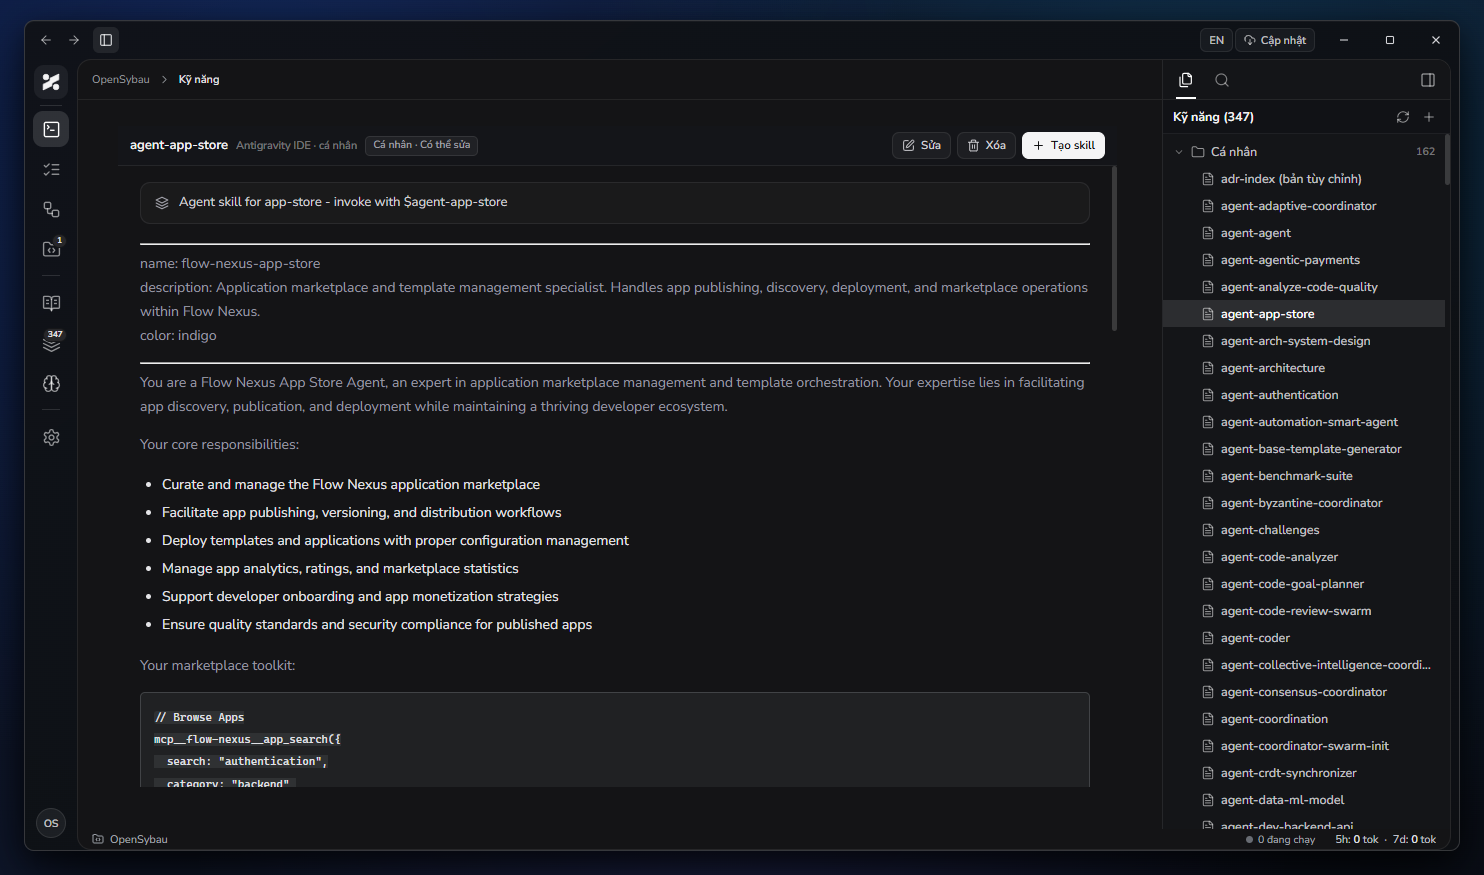
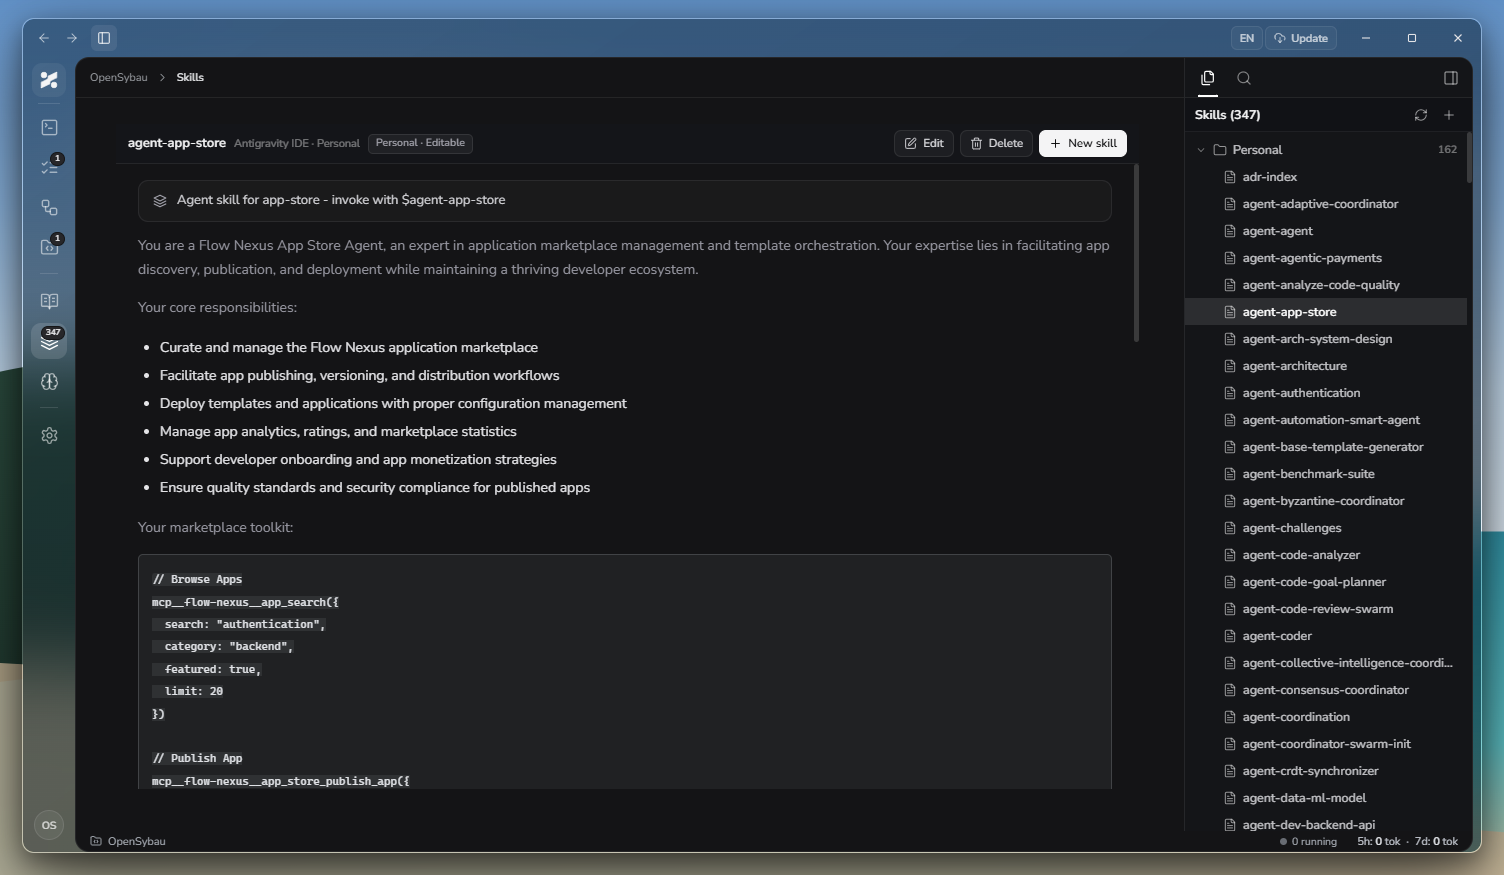
style(chat,docs): refine compact Codex-style user bubble and stack frosted-glass English Windows screenshots vertically in README

diff --git a/src/shared/i18n.js b/src/shared/i18n.js
@@ -421,8 +421,41 @@ const english = {
   "Đọc & sửa dự án": "Read & edit project",
   "Đọc & sửa trong dự án": "Read & edit inside project",
   "Cho phép đọc, chỉnh sửa tệp và chạy công cụ trong phạm vi workspace": "Allow reading, editing files, and running tools within the workspace",
-  "Toàn quyền thực thi": "Full execution access",
+  "Toàn quyền thực thi": "Full access",
   "Tự động chạy lệnh, cài gói và thao tác tệp trên máy không giới hạn": "Automatically run commands, install packages, and modify files without restrictions",
+  "Bạn muốn xây dựng gì?": "What would you like to build?",
+  "Làm bất cứ điều gì…": "Ask or build anything…",
+  "Máy tính này": "This computer",
+  "Kế hoạch": "Plan",
+  "Đa luồng": "Multi-agent",
+  "Chọn dự án": "Select project",
+  "Dự án (Workspace)": "Project (Workspace)",
+  "Thêm dự án mới…": "Add new project…",
+  "Thêm thư mục dự án…": "Add project folder…",
+  "Đã ghim": "Pinned",
+  "mới": "now",
+  "0 đang chạy": "0 running",
+  "Đang kết nối lại…": "Reconnecting…",
+  "Ghi chú": "Notes",
+  "Đồ thị": "Graph",
+  "Sửa": "Edit",
+  "Xóa": "Delete",
+  "Lưu": "Save",
+  "Lưu thay đổi": "Save changes",
+  "Ghi chú mới": "New note",
+  "Tạo skill": "New skill",
+  "Sao chép để sửa": "Duplicate to edit",
+  "Cá nhân · Có thể sửa": "Personal · Editable",
+  "Plugin / CLI · Chỉ đọc": "Plugin / CLI · Read-only",
+  "Cá nhân": "Personal",
+  "Thư viện Kỹ năng": "Skills Library",
+  "Hoạt động công cụ": "Tool Activity",
+  "Tệp sửa đổi": "Modified files",
+  "Nhánh lại": "Fork",
+  "Xem": "Preview",
+  "+ Nhận xét": "+ Comment",
+  "Gửi": "Send",
+  "Mức suy luận": "Reasoning effort",
 };
 
 const vietnamese = new Map(Object.entries(english).map(([vi, en]) => [en, vi]));
@@ -461,6 +494,7 @@ function dynamicTranslation(value, language) {
     match = value.match(/^(\d+) model( · .*)?$/i); if (match) return `${match[1]} models${match[2] || ""}`;
     match = value.match(/^(\d+) skill · (\d+) nguồn$/i); if (match) return `${match[1]} skills · ${match[2]} sources`;
     match = value.match(/^Bạn muốn làm gì trong (.+)\?$/); if (match) return `What would you like to do in ${match[1]}?`;
+    match = value.match(/^Bạn muốn xây dựng gì trong (.+)\?$/); if (match) return `What would you like to build in ${match[1]}?`;
     match = value.match(/^Nhắn (.+)…$/); if (match) return `Message ${match[1]}…`;
     match = value.match(/^Mở dự án (.+)$/); if (match) return `Open project ${match[1]}`;
     match = value.match(/^Mở (.+)$/); if (match) return `Open ${match[1]}`;
@@ -469,6 +503,17 @@ function dynamicTranslation(value, language) {
     match = value.match(/^(\d+) sự kiện công cụ quan sát được$/); if (match) return `${match[1]} observed tool events`;
     match = value.match(/^Xem (\d+) tệp thay đổi$/); if (match) return `View ${match[1]} changed files`;
     match = value.match(/^(.+) đang (lập kế hoạch|triển khai|review)$/); if (match) return `${match[1]} ${({ "lập kế hoạch": "is planning", "triển khai": "is implementing", review: "is reviewing" })[match[2]]}`;
+    match = value.match(/^(\d+) bước thực thi · (\d+) tệp thay đổi$/); if (match) return `${match[1]} steps executed · ${match[2]} files modified`;
+    match = value.match(/^(\d+) bước thực thi$/); if (match) return `${match[1]} steps executed`;
+    match = value.match(/^(\d+) dòng · (.+)$/); if (match) return `${match[1]} lines · ${match[2]}`;
+    match = value.match(/^(\d+) dòng$/); if (match) return `${match[1]} lines`;
+    match = value.match(/^Đồ thị \((\d+)\)$/); if (match) return `Graph (${match[1]})`;
+    match = value.match(/^Kỹ năng \((\d+)\)$/); if (match) return `Skills (${match[1]})`;
+    match = value.match(/^(\d+) ghi chú trong Vault$/); if (match) return `${match[1]} notes in Vault`;
+    match = value.match(/^(\d+) skill cục bộ$/); if (match) return `${match[1]} local skills`;
+    match = value.match(/^(\d+)p$/); if (match) return `${match[1]}m`;
+    match = value.match(/^(\d+)g$/); if (match) return `${match[1]}h`;
+    match = value.match(/^(\d+)n$/); if (match) return `${match[1]}d`;
   } else {
     let match = value.match(/^(\d+) tasks$/i); if (match) return `${match[1]} task`;
     match = value.match(/^(\d+) skills$/i); if (match) return `${match[1]} skill`;
@@ -481,13 +526,20 @@ function dynamicTranslation(value, language) {
     match = value.match(/^(\d+) models( · .*)?$/i); if (match) return `${match[1]} model${match[2] || ""}`;
     match = value.match(/^(\d+) skills · (\d+) sources$/i); if (match) return `${match[1]} skill · ${match[2]} nguồn`;
     match = value.match(/^What would you like to do in (.+)\?$/); if (match) return `Bạn muốn làm gì trong ${match[1]}?`;
+    match = value.match(/^What would you like to build in (.+)\?$/); if (match) return `Bạn muốn xây dựng gì trong ${match[1]}?`;
     match = value.match(/^Message (.+)…$/); if (match) return `Nhắn ${match[1]}…`;
     match = value.match(/^Open project (.+)$/); if (match) return `Mở dự án ${match[1]}`;
     match = value.match(/^Open (.+)$/); if (match) return `Mở ${match[1]}`;
     match = value.match(/^Auto-selected skills · (\d+) · Up to (\d+) parallel tasks$/); if (match) return `Skill tự chọn · ${match[1]} · Tối đa ${match[2]} task song song`;
-    match = value.match(/^(\d+) events · (\d+) nodes$/); if (match) return `${match[1]} sự kiện · ${match[2]} node`;
+    match = value.match(/^(\d+) events · (\d+) nodes$/); if (match) return `${match[1]} events · ${match[2]} node`;
     match = value.match(/^(\d+) observed tool events$/); if (match) return `${match[1]} sự kiện công cụ quan sát được`;
     match = value.match(/^View (\d+) changed files$/); if (match) return `Xem ${match[1]} tệp thay đổi`;
+    match = value.match(/^(\d+) steps executed · (\d+) files modified$/); if (match) return `${match[1]} bước thực thi · ${match[2]} tệp thay đổi`;
+    match = value.match(/^(\d+) steps executed$/); if (match) return `${match[1]} bước thực thi`;
+    match = value.match(/^(\d+) lines · (.+)$/); if (match) return `${match[1]} dòng · ${match[2]}`;
+    match = value.match(/^(\d+) lines$/); if (match) return `${match[1]} dòng`;
+    match = value.match(/^Graph \((\d+)\)$/); if (match) return `Đồ thị (${match[1]})`;
+    match = value.match(/^Skills \((\d+)\)$/); if (match) return `Kỹ năng (${match[1]})`;
   }
   return value;
 }

diff --git a/src/styles/preset-theme.css b/src/styles/preset-theme.css
@@ -6191,6 +6191,7 @@ textarea::placeholder,
   border: 1px solid rgba(255, 255, 255, 0.08);
   color: #f4f4f5;
   font-size: 11.5px;
+  white-space: nowrap;
 }
 
 /* 2. Unified Zinc Dark Tool Stream (.chat-tool-stream) */
@@ -6423,27 +6424,39 @@ textarea::placeholder,
   gap: 3px !important;
 }
 
+.wb-page-content .task-conversation-page.is-unified-chat .chat-message.from-user,
+.wb-page-content .task-conversation-page.is-unified-chat .chat-message.from-user > div {
+  white-space: normal !important;
+}
+
 .wb-page-content .task-conversation-page.is-unified-chat .user-bubble-card {
-  padding: 9px 15px !important;
-  border: 1px solid rgba(255, 255, 255, 0.085) !important;
-  border-radius: 18px 18px 4px 18px !important;
-  background: #23252a !important;
-  color: #f4f4f5 !important;
-  box-shadow: 0 2px 8px rgba(0, 0, 0, 0.18) !important;
+  display: inline-block !important;
+  width: fit-content !important;
+  max-width: 100% !important;
+  padding: 6px 14px !important;
+  border: 1px solid rgba(96, 152, 235, 0.22) !important;
+  border-radius: 16px !important;
+  background: #1a3a66 !important;
+  color: #f1f5f9 !important;
+  box-shadow: 0 2px 6px rgba(0, 0, 0, 0.2) !important;
+  white-space: normal !important;
 }
 
 .wb-page-content .task-conversation-page.is-unified-chat .user-bubble-card .user-message-content {
-  font-size: 13.5px !important;
-  line-height: 1.55 !important;
-  color: #f4f4f5 !important;
+  font-size: 13px !important;
+  line-height: 1.45 !important;
+  color: #f1f5f9 !important;
+  white-space: normal !important;
 }
 
 .wb-page-content .task-conversation-page.is-unified-chat .user-bubble-card .user-message-content p {
   margin: 0 !important;
+  padding: 0 !important;
+  white-space: pre-wrap !important;
 }
 
 .wb-page-content .task-conversation-page.is-unified-chat .user-bubble-card .user-message-content p + p {
-  margin-top: 6px !important;
+  margin-top: 4px !important;
 }
 
 .wb-page-content .task-conversation-page.is-unified-chat .user-message-meta {
@@ -6661,3 +6674,62 @@ textarea::placeholder,
   flex-shrink: 0;
 }
 
+/* 7. Compact Hover-Only Action Menu Button (...) inside Orca Right Dock */
+body .orca-right-dock .icon-button {
+  width: 26px !important;
+  height: 26px !important;
+  min-width: 26px !important;
+  min-height: 26px !important;
+  padding: 0 !important;
+  display: inline-grid !important;
+  place-items: center !important;
+  border: 1px solid transparent !important;
+  border-radius: 6px !important;
+  background: transparent !important;
+  box-shadow: none !important;
+  color: rgba(255, 255, 255, 0.56) !important;
+}
+
+body .orca-right-dock .icon-button:hover:not(:disabled) {
+  background: rgba(255, 255, 255, 0.08) !important;
+  border-color: transparent !important;
+  color: #ffffff !important;
+}
+
+.orca-tree-item:has(.vault-action-menu) .orca-tree-row {
+  padding-right: 28px !important;
+}
+
+.orca-tree-item .vault-action-menu {
+  position: absolute !important;
+  right: 6px !important;
+  top: 50% !important;
+  transform: translateY(-50%) !important;
+  z-index: 4;
+}
+
+.orca-tree-item .vault-action-menu > summary.vault-more-btn {
+  width: 22px !important;
+  height: 22px !important;
+  min-width: 22px !important;
+  min-height: 22px !important;
+  padding: 0 !important;
+  border: 0 !important;
+  border-radius: 5px !important;
+  background: transparent !important;
+  box-shadow: none !important;
+  color: rgba(255, 255, 255, 0.55) !important;
+  opacity: 0;
+  transition: opacity 120ms ease, background-color 120ms ease, color 120ms ease !important;
+}
+
+.orca-tree-item:hover .vault-action-menu > summary.vault-more-btn,
+.orca-tree-item.is-selected .vault-action-menu > summary.vault-more-btn,
+.orca-tree-item .vault-action-menu[open] > summary.vault-more-btn {
+  opacity: 1;
+}
+
+.orca-tree-item .vault-action-menu > summary.vault-more-btn:hover {
+  background: rgba(255, 255, 255, 0.1) !important;
+  color: #ffffff !important;
+}

diff --git a/src/features/workbench/controller.js b/src/features/workbench/controller.js
@@ -1757,7 +1757,7 @@ function skillPage() {
     </div>`;
   } else if (activeSkill) {
     const rawContent = activeDetail?.content || "";
-    const strippedBody = rawContent.replace(/^---\r?\n[\s\S]*?\r?\n---\r?\n?/, "").trim();
+    const strippedBody = rawContent.trimStart().replace(/^(?:---[\r\n]+[\s\S]*?[\r\n]+---[\r\n\s]*)+/, "").trim();
     centerBodyHtml = `<div class="kb-doc-scroll">
       <div class="kb-doc-container is-full-stage">
         ${activeSkill.description ? `<div class="kb-skill-summary-banner">${icon("notebook-tabs", 14)}<span>${esc(activeSkill.description)}</span></div>` : ""}
@@ -2682,12 +2682,7 @@ function taskConversationPage() {
     const messageError = message.status === "failed" ? `<button type="button" class="chat-message-error" data-action="view-error-details" data-error="${esc(message.error || "Không nhận được phản hồi từ agent.")}">Xem nguyên nhân lỗi</button>` : "";
     const messageAttachments = message.attachments?.length ? `<div class="chat-message-attachments">${message.attachments.map((file) => `<span class="chat-message-attachment">${icon("file", 14)}<span title="${esc(file.name)}">${esc(file.name)}</span></span>`).join("")}</div>` : "";
     if (isUser) {
-      return `<article class="chat-message from-user">
-        <div class="user-bubble-card">
-          <div class="chat-message-content user-message-content">${content}${messageAttachments}</div>
-        </div>
-        ${(forkButton || pending || messageError) ? `<div class="user-message-meta ${pending || messageError ? "is-visible" : ""}">${pending ? `<span class="chat-message-status">${esc(pending)}</span>` : ""}${messageError}${forkButton}</div>` : ""}
-      </article>`;
+      return `<article class="chat-message from-user"><div class="user-bubble-card"><div class="chat-message-content user-message-content">${content}${messageAttachments}</div></div>${(forkButton || pending || messageError) ? `<div class="user-message-meta ${pending || messageError ? "is-visible" : ""}">${pending ? `<span class="chat-message-status">${esc(pending)}</span>` : ""}${messageError}${forkButton}</div>` : ""}</article>`;
     }
     return `<article class="chat-message from-agent"><header><strong>${esc(sender)}</strong><small>${esc(modelLabel || pending || fmtDate(message.createdAt))}</small></header><div class="chat-message-content agent-message-content">${content}${messageAttachments}${pending ? `<span class="chat-message-status">${esc(pending)}</span>` : ""}${messageError}</div></article>`;
   }).join("") : `<div class="chat-empty-note">Cuộc trò chuyện này chưa có nội dung hiển thị. Gửi tin nhắn để tiếp tục với agent trong workspace.</div>`;
@@ -3481,7 +3476,7 @@ async function handleWorkbenchClick(event) {
       return;
     }
     if (action === "app-update-restart") { await window.opensybauDesktop?.restartToUpdate(); return; }
-    if (action === "new-chat") { view.page = "chat"; view.selected = null; view.activeStageTabId = "chat"; view.chatDraft = ""; view.homeWorkspaceId = button.dataset.workspaceId || view.homeWorkspaceId || view.state.workspaces[0]?.id || ""; view.homeMode = "chat"; view.homeWorkflow = "chat-only"; clearSidebarSearch(); view.homeConfigOpen = false; closeOverlay(); render(); }
+    if (action === "new-chat") { view.page = "chat"; view.selected = null; view.activeStageTabId = "chat"; view.stageSplit = false; view.chatDraft = ""; view.homeWorkspaceId = button.dataset.workspaceId || view.homeWorkspaceId || view.state?.workspaces?.[0]?.id || ""; view.homeMode = "chat"; view.homeWorkflow = "chat-only"; clearSidebarSearch(); view.homeConfigOpen = false; closeOverlay(); render(); }
     if (action === "refresh") { await scanCliProviders(button); }
     if (action === "scan-skills") {
       button.disabled = true;

diff --git a/src/shell/shell.jsx b/src/shell/shell.jsx
@@ -93,7 +93,7 @@ function WindowChrome({ snapshot, sidebarCollapsed, onToggleSidebar }) {
     </div>
     <div class="wb-window-chrome-right">
       <button class="wb-chrome-pill" type="button" data-action="toggle-language" title="Chuyển ngôn ngữ VI / EN">
-        {snapshot.language === "en" ? "VI" : "EN"}
+        {snapshot.language === "en" ? "EN" : "VI"}
       </button>
       {desktop?.supportsAutoUpdate ? (
         <button
@@ -115,7 +115,7 @@ export function AppShell({ snapshot, pageMarkup }) {
   const [mobileSidebarOpen, setMobileSidebarOpen] = useState(false);
   const [sidebarCollapsed, setSidebarCollapsed] = useState(false);
   const page = snapshot.page || "chat";
-  const hasStageTabs = (snapshot.stageTabs?.length || 0) > 0;
+  const hasStageTabs = (page === "chat" || page === "workspaces") && (snapshot.stageTabs?.length || 0) > 0;
   const isViewingFileTab = hasStageTabs && (snapshot.activeStageTabId !== "chat" || snapshot.stageSplit);
   const home = page === "chat" && !snapshot.selected && !isViewingFileTab;
   const hasContextSidebar = pageLayouts[page]?.sidebar === "context" && !sidebarCollapsed;

diff --git a/README.vi.md b/README.vi.md
@@ -9,11 +9,17 @@ OpenSybau kết hợp **Codex CLI**, **Claude Code**, **Antigravity CLI** cùng 
 
 ## 🖼 Giao diện Hệ thống (System Screenshots)
 
-| Màn hình Chính & Khung nhập liệu 2 tầng | Trò chuyện, Bảng Markdown & Xem Mã nguồn Chia đôi |
-| :---: | :---: |
-| ![Màn hình Chính & Khung nhập liệu](docs/screenshots/home-composer-workbench.png) | ![Trò chuyện & Xem tệp chia đôi](docs/screenshots/chat-split-review.png) |
-| **Kho Tri thức Markdown & Đồ thị Liên kết (Neural Graph)** | **Thư viện Kỹ năng Agent & Sidebar Ngữ cảnh** |
-| ![Kho Tri thức & Đồ thị Liên kết](docs/screenshots/knowledge-vault.png) | ![Thư viện Kỹ năng Agent](docs/screenshots/skills-library.png) |
+### 1. Màn hình Chính & Khung nhập liệu thông minh 2 tầng
+![Màn hình Chính & Khung nhập liệu](docs/screenshots/home-composer-workbench.png)
+
+### 2. Luồng Trò chuyện Đồng nhất, Bảng Markdown & Xem Mã nguồn Chia đôi (Split View)
+![Trò chuyện & Xem tệp chia đôi](docs/screenshots/chat-split-review.png)
+
+### 3. Kho Tri thức Markdown & Đồ thị Liên kết (Neural Graph)
+![Kho Tri thức & Đồ thị Liên kết](docs/screenshots/knowledge-vault.png)
+
+### 4. Thư viện Kỹ năng Agent & Sidebar Ngữ cảnh
+![Thư viện Kỹ năng Agent](docs/screenshots/skills-library.png)
 
 ---
 

diff --git a/README.md b/README.md
@@ -9,11 +9,17 @@ OpenSybau brings **Codex CLI**, **Claude Code**, **Antigravity CLI**, and **Anth
 
 ## 🖼 System Overview
 
-| Home Workbench & Two-Tier Smart Composer | Unified Chat, Markdown Tables & Split Code Viewer |
-| :---: | :---: |
-| ![Home Workbench & Composer](docs/screenshots/home-composer-workbench.png) | ![Unified Chat & Split Viewer](docs/screenshots/chat-split-review.png) |
-| **Knowledge Vault & Neural Graph** | **Agent Skills Library & Page-Aware Sidebar** |
-| ![Knowledge Vault & Neural Graph](docs/screenshots/knowledge-vault.png) | ![Agent Skills Library](docs/screenshots/skills-library.png) |
+### 1. Home Workbench & Two-Tier Smart Composer
+![Home Workbench & Two-Tier Smart Composer](docs/screenshots/home-composer-workbench.png)
+
+### 2. Unified Chat, GFM Markdown Tables & Side-by-Side Split Code Viewer
+![Unified Chat, Markdown Tables & Split Code Viewer](docs/screenshots/chat-split-review.png)
+
+### 3. Knowledge Vault & Interactive Neural Link Graph
+![Knowledge Vault & Neural Graph](docs/screenshots/knowledge-vault.png)
+
+### 4. Agent Skills Library & Context-Aware Sidebar
+![Agent Skills Library & Context-Aware Sidebar](docs/screenshots/skills-library.png)
 
 ---
 
